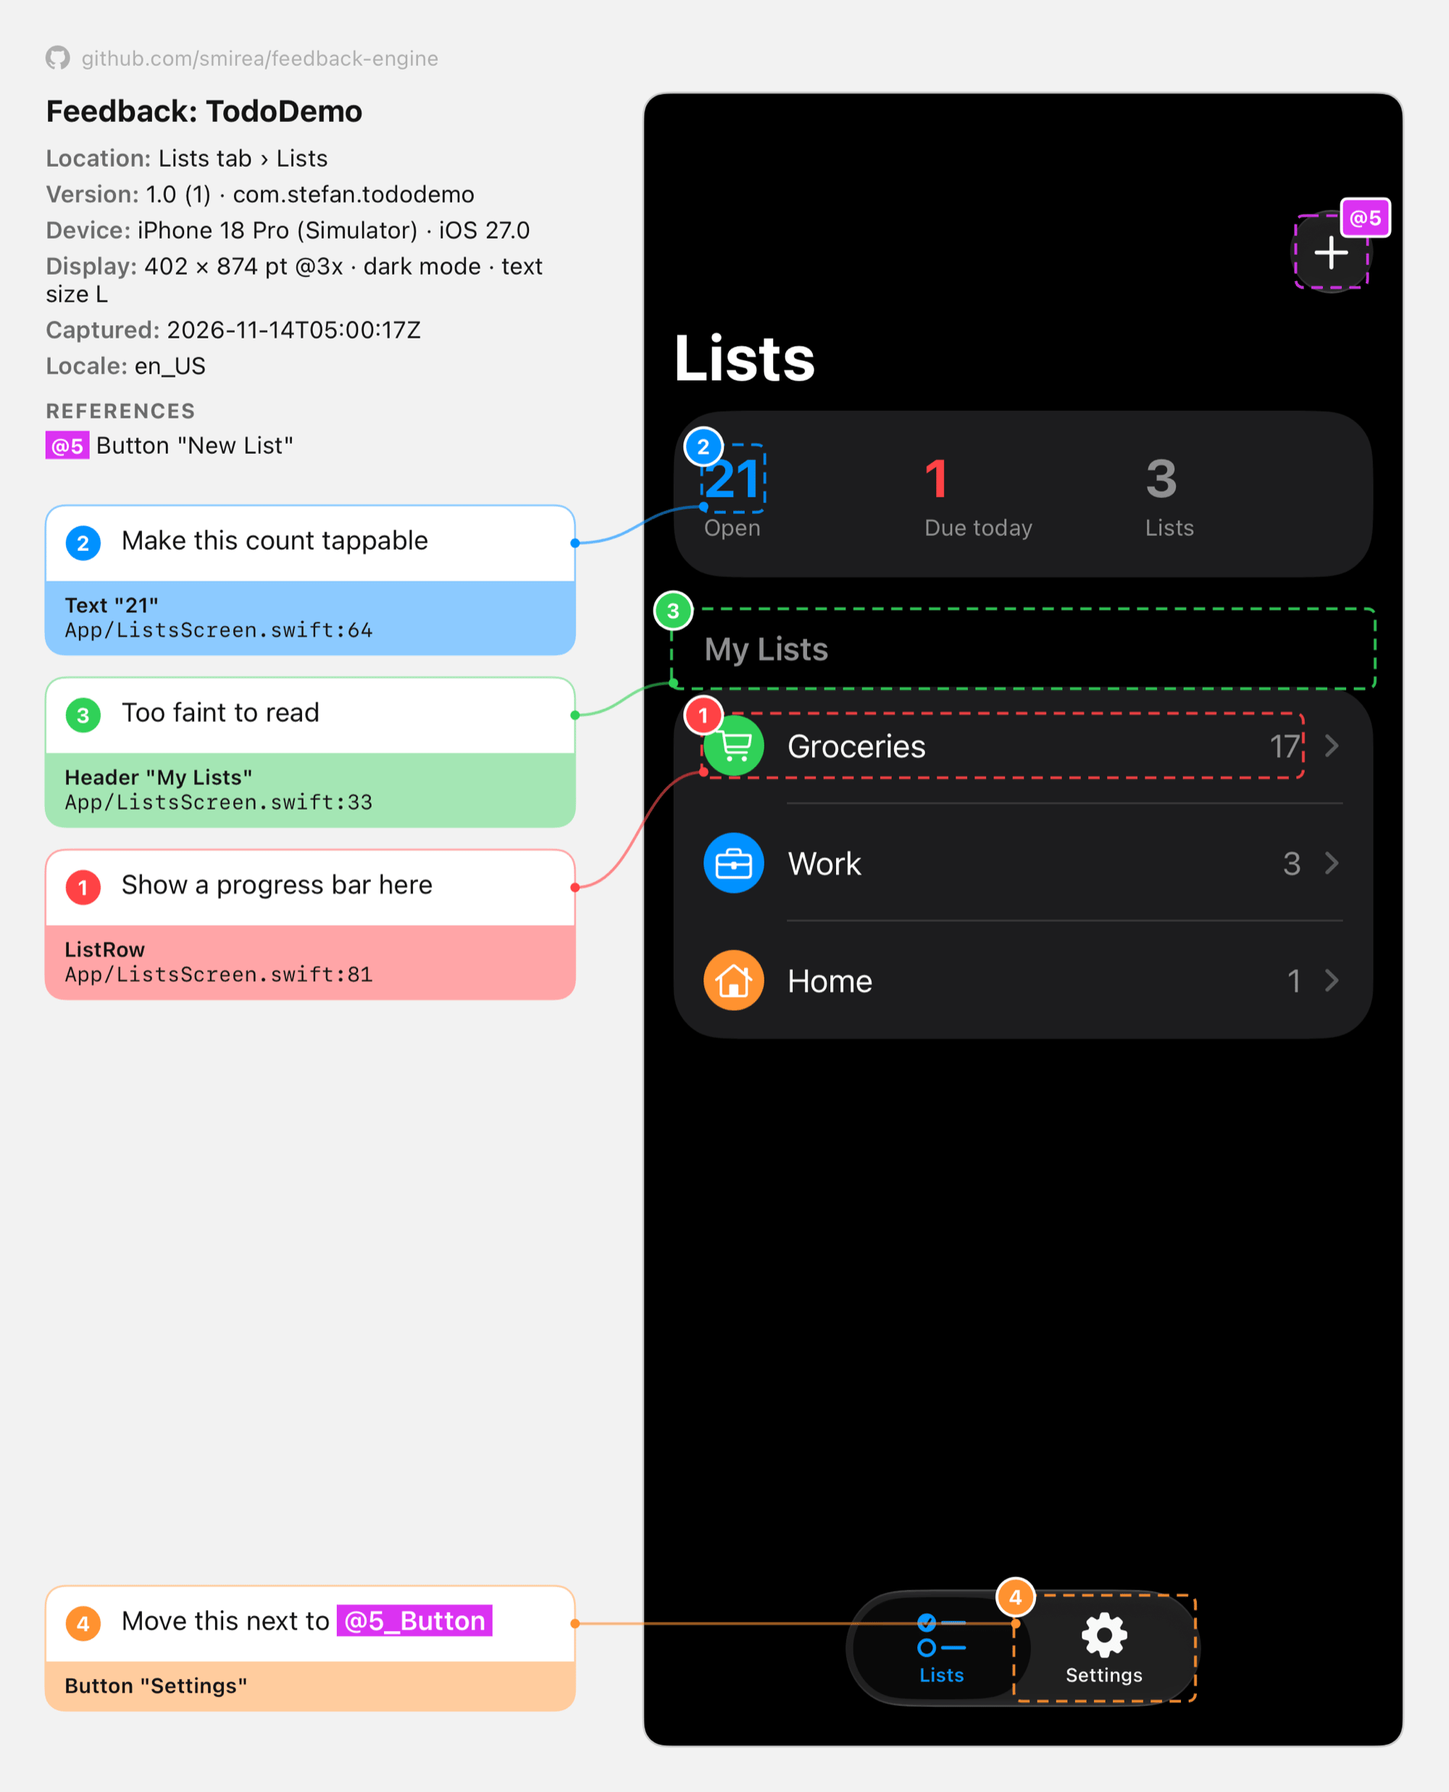
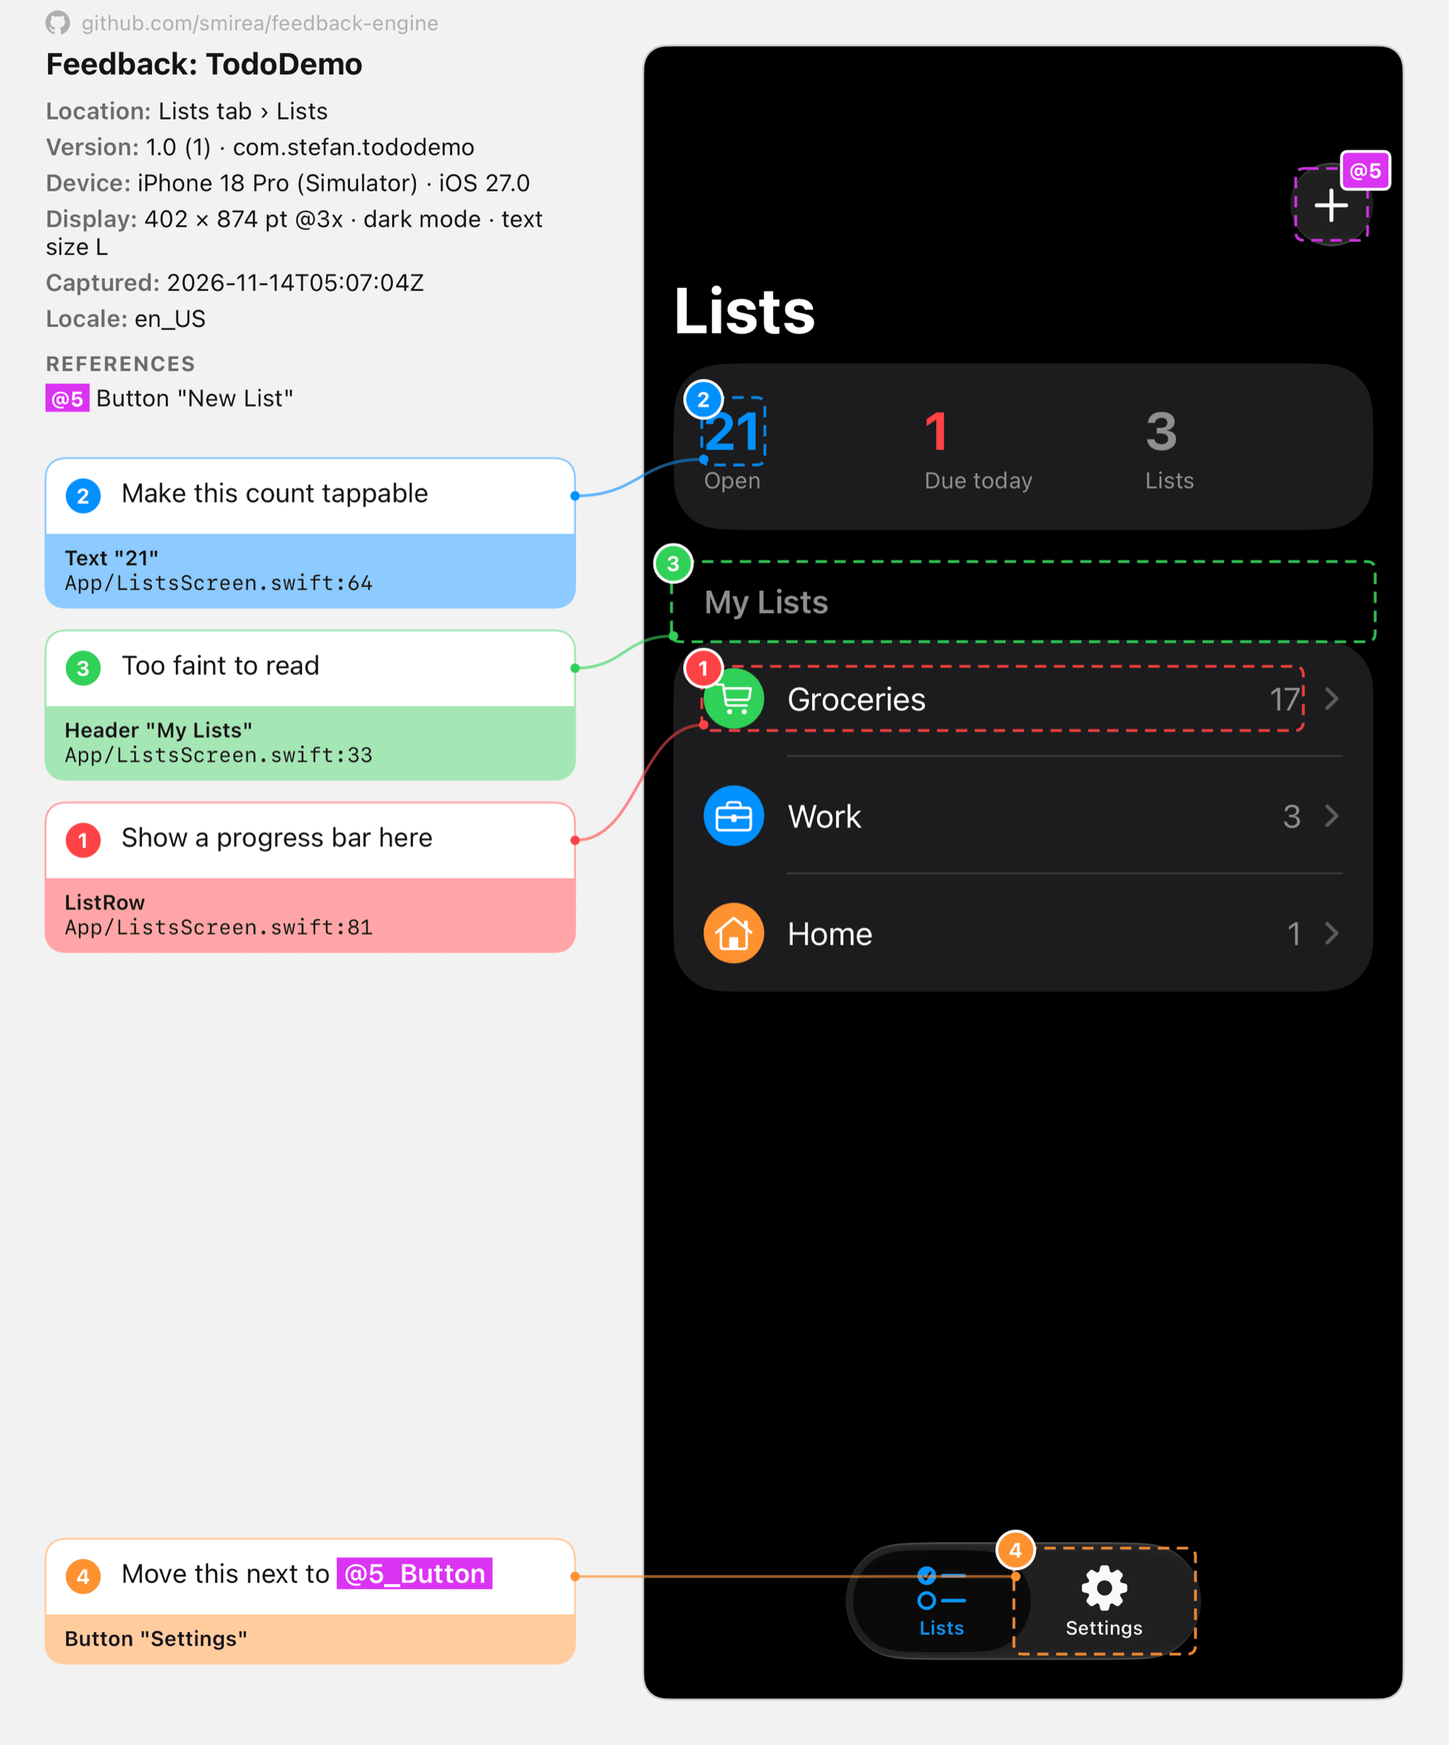
feat: the image export keeps an even margin and centers the watermark in the top one

diff --git a/packages/ios/Sources/Feedback/AnnotatedImage.swift b/packages/ios/Sources/Feedback/AnnotatedImage.swift
@@ -3,7 +3,7 @@ import CoreGraphics
 /// Where the image export puts each item's card. Cards go in the column whose path to the target costs
 /// least: its length, `rightColumnPenalty` points for the right column, and `crossingPenalty` for each
 /// other box or earlier path it crosses, as level with the target as the cards above allow. The
-/// watermark has a strip across the top of the image, in the outer corner of the environment's column.
+/// watermark sits in the top margin, centered in it, in the outer corner of the environment's column.
 /// The environment sits at the top of the right column, and right-column cards start below it. When one
 /// column holds the environment and every card with no crossing and no taller image, the image drops
 /// the other column and keeps only a margin on that side, and of the two sides it takes the one whose
@@ -75,20 +75,19 @@ enum CardLayout {
     private static func arrange(
         _ columns: Columns, targets: [CGRect], heights: [CGFloat], screen: CGSize, environmentHeight: CGFloat, viewport: CGFloat, references: [CGRect]
     ) -> Arrangement {
-        let top = margin + watermark + spacing
-        var shot = CGRect(x: columns == .right ? margin : margin + column + gutter, y: top, width: screen.width, height: screen.height)
+        var shot = CGRect(x: columns == .right ? margin : margin + column + gutter, y: margin, width: screen.width, height: screen.height)
         let rightX = shot.maxX + gutter
         let moved = targets.map { $0.offsetBy(dx: shot.minX, dy: shot.minY) }
         let boxes = moved + references.map { $0.offsetBy(dx: shot.minX, dy: shot.minY) }
         var cards = moved.map { _ in Card(isLeft: true, origin: .zero) }
         var paths: [[CGPoint]] = []
-        let environment = CGPoint(x: columns == .left ? margin : rightX, y: top)
-        let underEnvironment = top + environmentHeight + spacing * 2
-        var nextLeft = columns == .left ? underEnvironment : top, nextRight = underEnvironment
+        let environment = CGPoint(x: columns == .left ? margin : rightX, y: margin)
+        let underEnvironment = margin + environmentHeight + spacing * 2
+        var nextLeft = columns == .left ? underEnvironment : margin, nextRight = underEnvironment
         var cost: CGFloat = 0, crossed = 0
         for index in moved.indices.sorted(by: { (moved[$0].midY, $0) < (moved[$1].midY, $1) }) {
             let target = moved[index]
-            let desired = max(target.midY - heights[index] / 2, top)
+            let desired = max(target.midY - heights[index] / 2, margin)
             var options: [Card] = []
             if columns != .right { options.append(Card(isLeft: true, origin: CGPoint(x: margin, y: max(desired, nextLeft)))) }
             if columns != .left { options.append(Card(isLeft: false, origin: CGPoint(x: rightX, y: max(desired, nextRight)))) }
@@ -113,7 +112,7 @@ enum CardLayout {
         shot.size.height = min(screen.height, max(viewport, lowest + viewport / 2))
         let layout = Layout(
             shot: shot, cards: cards, environment: environment,
-            watermark: Card(isLeft: columns == .left, origin: CGPoint(x: environment.x, y: margin)),
+            watermark: Card(isLeft: columns == .left, origin: CGPoint(x: environment.x, y: (margin - watermark) / 2)),
             size: CGSize(
                 width: columns == .left ? shot.maxX + margin : rightX + column + margin,
                 height: max(shot.maxY, nextLeft - spacing, nextRight - spacing) + margin

diff --git a/packages/web/src/core/cardLayout.ts b/packages/web/src/core/cardLayout.ts
@@ -106,10 +106,9 @@ function arrange(
 	references: Frame[],
 ): Arrangement {
 	const { margin, column, gutter, spacing, rightColumnPenalty, crossingPenalty, watermark } = cards;
-	const top = margin + watermark + spacing;
 	const shot = {
 		x: columns === 'right' ? margin : margin + column + gutter,
-		y: top,
+		y: margin,
 		width: screen.width,
 		height: screen.height,
 	};
@@ -120,16 +119,16 @@ function arrange(
 	const midY = (index: number) => moved[index]!.y + moved[index]!.height / 2;
 	const placed: Card[] = moved.map(() => ({ isLeft: true, origin: { x: 0, y: 0 } }));
 	const paths: Point[][] = [];
-	const environment = { x: columns === 'left' ? margin : rightX, y: top };
-	const underEnvironment = top + environmentHeight + spacing * 2;
-	let nextLeft = columns === 'left' ? underEnvironment : top;
+	const environment = { x: columns === 'left' ? margin : rightX, y: margin };
+	const underEnvironment = margin + environmentHeight + spacing * 2;
+	let nextLeft = columns === 'left' ? underEnvironment : margin;
 	let nextRight = underEnvironment;
 	let cost = 0;
 	let crossed = 0;
 	const order = moved.map((_, index) => index).toSorted((a, b) => midY(a) - midY(b) || a - b);
 	for (const index of order) {
 		const target = moved[index]!;
-		const desired = Math.max(midY(index) - heights[index]! / 2, top);
+		const desired = Math.max(midY(index) - heights[index]! / 2, margin);
 		const options: Card[] = [];
 		if (columns !== 'right') options.push({ isLeft: true, origin: { x: margin, y: Math.max(desired, nextLeft) } });
 		if (columns !== 'left') options.push({ isLeft: false, origin: { x: rightX, y: Math.max(desired, nextRight) } });
@@ -161,7 +160,7 @@ function arrange(
 		shot,
 		cards: placed,
 		environment,
-		watermark: { isLeft: columns === 'left', origin: { x: environment.x, y: margin } },
+		watermark: { isLeft: columns === 'left', origin: { x: environment.x, y: (margin - watermark) / 2 } },
 		size: { width: columns === 'left' ? shot.x + shot.width + margin : rightX + column + margin, height },
 		cost,
 		crossings: crossed,
@@ -171,7 +170,7 @@ function arrange(
 /**
  * Where the image export puts each item's card. Cards go in the column whose path to the target costs least: its
  * length, `rightColumnPenalty` points for the right column, and `crossingPenalty` for each other box or earlier path
- * it crosses, as level with the target as the cards above allow. The watermark has a strip across the top of the image,
+ * it crosses, as level with the target as the cards above allow. The watermark sits in the top margin, centered in it,
  * in the outer corner of the environment's column. The environment sits at the top of the right column, and
  * right-column cards start below it. When one column holds the
  * environment and every card with no crossing and no taller image, the image drops the other column and keeps only a

diff --git a/packages/ios/Tests/FeedbackTests/FeedbackTests.swift b/packages/ios/Tests/FeedbackTests/FeedbackTests.swift
@@ -260,23 +260,23 @@ private final class Store {
         viewport: 800,
         references: [CGRect(x: 150, y: 280, width: 100, height: 80)]
     )
-    #expect(layout.shot == CGRect(x: 340, y: 49, width: 400, height: 800))
+    #expect(layout.shot == CGRect(x: 340, y: 24, width: 400, height: 800))
     #expect(layout.cards == [
-        .init(isLeft: true, origin: CGPoint(x: 24, y: 339)),
-        .init(isLeft: false, origin: CGPoint(x: 776, y: 339)),
+        .init(isLeft: true, origin: CGPoint(x: 24, y: 314)),
+        .init(isLeft: false, origin: CGPoint(x: 776, y: 314)),
     ])
-    #expect(layout.environment == CGPoint(x: 776, y: 49))
-    #expect(layout.size == CGSize(width: 1080, height: 873))
+    #expect(layout.environment == CGPoint(x: 776, y: 24))
+    #expect(layout.size == CGSize(width: 1080, height: 848))
 }
 
 @Test func oneColumnKeepsOnlyAMarginOnTheOtherSide() {
     let layout = CardLayout.place(
         targets: [CGRect(x: 360, y: 700, width: 30, height: 30)], heights: [50], screen: screen, environmentHeight: 200, viewport: 800
     )
-    #expect(layout.shot == CGRect(x: 24, y: 49, width: 400, height: 800))
-    #expect(layout.cards == [.init(isLeft: false, origin: CGPoint(x: 460, y: 739))])
-    #expect(layout.environment == CGPoint(x: 460, y: 49))
-    #expect(layout.size == CGSize(width: 764, height: 873))
+    #expect(layout.shot == CGRect(x: 24, y: 24, width: 400, height: 800))
+    #expect(layout.cards == [.init(isLeft: false, origin: CGPoint(x: 460, y: 714))])
+    #expect(layout.environment == CGPoint(x: 460, y: 24))
+    #expect(layout.size == CGSize(width: 764, height: 848))
 }
 
 @Test func aCardIsJoinedToItsTargetByAnSCurveThatMeetsItLevel() {
@@ -287,8 +287,8 @@ private final class Store {
 @Test func aTallCaptureIsCutHalfAScreenBelowTheLowestCardAndIsAtLeastOneScreenTall() {
     let tall = CGSize(width: 400, height: 5000)
     let near = CardLayout.place(targets: [CGRect(x: 0, y: 100, width: 60, height: 44)], heights: [60], screen: tall, environmentHeight: 150, viewport: 800)
-    #expect(near.shot == CGRect(x: 340, y: 49, width: 400, height: 800))
-    #expect(near.size.height == 873)
+    #expect(near.shot == CGRect(x: 340, y: 24, width: 400, height: 800))
+    #expect(near.size.height == 848)
     let far = CardLayout.place(targets: [CGRect(x: 0, y: 3000, width: 60, height: 50)], heights: [60], screen: tall, environmentHeight: 150, viewport: 800)
     #expect(far.shot.height == 3455)
     let referenced = CardLayout.place(

diff --git a/packages/web/e2e/feedback.e2e.ts b/packages/web/e2e/feedback.e2e.ts
@@ -365,9 +365,8 @@ for (const app of appNames) {
 					).toEqual([['@1_ListRow', 'ListRow']]);
 					const image = PNG.sync.read(Buffer.from(await Bun.file(join(folder, 'feedback/feedback.png')).arrayBuffer()));
 					// One card is level with its row and crosses nothing, so one column, a gutter, and a margin on each side, at 2x.
-					// The watermark's strip and its spacing sit above the screenshot.
 					expect(image.width).toBe((24 + 280 + 36 + viewport.width + 24) * 2);
-					expect(image.height).toBe((24 + 13 + 12 + zipped.size.height + 24) * 2);
+					expect(image.height).toBe((24 + zipped.size.height + 24) * 2);
 
 					if (engine === 'chromium') {
 						await page.getByRole('button', { name: 'Copy Feedback' }).click();

diff --git a/packages/web/src/core/core.test.ts b/packages/web/src/core/core.test.ts
@@ -402,8 +402,8 @@ test('nesting stops after 3 levels, lists after 10 elements, and the whole descr
 test('a tall capture is cut half a screen below the lowest box or card, and is at least one screen tall', () => {
 	const tall = { width: 400, height: 5000 };
 	const near = place([frame(0, 100, 60, 44)], [60], tall, 150, 800);
-	expect(near.shot).toEqual(frame(340, 49, 400, 800));
-	expect(near.size.height).toBe(873);
+	expect(near.shot).toEqual(frame(340, 24, 400, 800));
+	expect(near.size.height).toBe(848);
 	expect(place([frame(0, 3000, 60, 50)], [60], tall, 150, 800).shot.height).toBe(3055 + 400);
 	expect(place([frame(0, 100, 60, 44)], [60], tall, 150, 800, [frame(0, 4000, 60, 50)]).shot.height).toBe(4050 + 400);
 });

diff --git a/spec/report.md b/spec/report.md
@@ -48,7 +48,7 @@ Items and references share one count. A node takes the next number, from 1, and 
 
 ## Image export
 
-The screenshot sits between two columns of cards. Each item's target has a dashed box with no fill and a round badge with its number, matching the item numbers in the JSON export. Each node an item's text references has a box in its color too, with its `@N` in a square tag on the box's top-right corner. In the cards, each reference token is drawn in white on its color, with a space of that color before and after it. Each item goes in a card, with its text at the top beside the badge, and its target title over the nearest component's `file:line` at the bottom, in dark text of one small size on a band filled with the card's border color, as level with the target as the cards above it allow. An S curve joins the card's badge to the nearest side of the box, leaving the card level and meeting the box level. It has the dashed box's 1.5 point stroke and a dot at each end, one on the card's edge and one on the box. Cards are placed from the highest target down, and each takes the column whose curve costs least: its straight length, 80 points more for the right column, and 500 points for each other item or reference box it passes through and each earlier curve it crosses. A faint watermark, GitHub's mark at 13 points beside `github.com/smirea/feedback-engine` in 11 point text, sits in a strip along the top of the image, in the corner of the column that holds the environment, against its outer edge. That is the right edge of the right column, or the left edge when the left column is the only one. The screenshot, the cards, and the environment start 12 points below the strip. The app name goes at the top of the right column, then one `Name: value` line per environment entry, wrapped, then, under a small `REFERENCES` header, one line per reference with no item of its own: its `@N` in white on its color, the nearest component's `file:line`, and its title. The cards in the right column go below them. When the environment and every card fit in one column, on either side, with no curve passing through a box or crossing another curve and with an image no taller than two columns give, the image has that one column, and the other side of the screenshot keeps only the outer margin. Of the two sides, the one whose curves are shorter in total wins, the left on a tie. The screenshot is cut half the height of the part that was on screen below the lowest item box, reference box, or card, but never shorter than that height and never past the capture's end. A tall capture is drawn at a lower scale, so the image stays under about 40 million pixels.
+The screenshot sits between two columns of cards. Each item's target has a dashed box with no fill and a round badge with its number, matching the item numbers in the JSON export. Each node an item's text references has a box in its color too, with its `@N` in a square tag on the box's top-right corner. In the cards, each reference token is drawn in white on its color, with a space of that color before and after it. Each item goes in a card, with its text at the top beside the badge, and its target title over the nearest component's `file:line` at the bottom, in dark text of one small size on a band filled with the card's border color, as level with the target as the cards above it allow. An S curve joins the card's badge to the nearest side of the box, leaving the card level and meeting the box level. It has the dashed box's 1.5 point stroke and a dot at each end, one on the card's edge and one on the box. Cards are placed from the highest target down, and each takes the column whose curve costs least: its straight length, 80 points more for the right column, and 500 points for each other item or reference box it passes through and each earlier curve it crosses. A faint watermark, GitHub's mark at 13 points beside `github.com/smirea/feedback-engine` in 11 point text, sits in the image's top margin, centered in its height, in the corner of the column that holds the environment, against its outer edge. That is the right edge of the right column, or the left edge when the left column is the only one. The margin stays 24 points on every edge, so the screenshot and the app name start right below it. The app name goes at the top of the right column, then one `Name: value` line per environment entry, wrapped, then, under a small `REFERENCES` header, one line per reference with no item of its own: its `@N` in white on its color, the nearest component's `file:line`, and its title. The cards in the right column go below them. When the environment and every card fit in one column, on either side, with no curve passing through a box or crossing another curve and with an image no taller than two columns give, the image has that one column, and the other side of the screenshot keeps only the outer margin. Of the two sides, the one whose curves are shorter in total wins, the left on a tie. The screenshot is cut half the height of the part that was on screen below the lowest item box, reference box, or card, but never shorter than that height and never past the capture's end. A tall capture is drawn at a lower scale, so the image stays under about 40 million pixels.
 
 ## JSON export
 

diff --git a/spec/features.md b/spec/features.md
@@ -116,7 +116,7 @@ Add or update a row in the same change that adds, changes, or removes behavior o
 
 | ID | Feature | iOS | Svelte | React | Notes |
 | --- | --- | --- | --- | --- | --- |
-| X1 | The image export is one `feedback.png` with numbered boxes, a card per item, and the environment. Each card has the text at the top and the target with its `file:line` in a band at the bottom, and an S curve to its box that avoids other boxes and curves, at the dashed box's stroke width with a dot at each end. A faint GitHub watermark with the repository's URL sits in the top corner above the environment. The environment sits at the top of the right column as `Name: value` lines, with a `file:line` line for each reference that has no card under a References header, and that column's cards under it. When one column holds everything with no crossing, the image drops the other column, on the side with the shorter curves. A tall capture is cut half a screen below the lowest box or card, and is at least one screen tall. | shipped | shipped | shipped | Web: drawn on a canvas with the layout rules of `report.md`. |
+| X1 | The image export is one `feedback.png` with numbered boxes, a card per item, and the environment. Each card has the text at the top and the target with its `file:line` in a band at the bottom, and an S curve to its box that avoids other boxes and curves, at the dashed box's stroke width with a dot at each end. A faint GitHub watermark with the repository's URL sits in the top margin, in the corner above the environment. The environment sits at the top of the right column as `Name: value` lines, with a `file:line` line for each reference that has no card under a References header, and that column's cards under it. When one column holds everything with no crossing, the image drops the other column, on the side with the shorter curves. A tall capture is cut half a screen below the lowest box or card, and is at least one screen tall. | shipped | shipped | shipped | Web: drawn on a canvas with the layout rules of `report.md`. |
 | X2 | The JSON export is one `feedback.json` with the items, the tree, the component data, and the context. | shipped | shipped | shipped | |
 | X3 | Image and JSON export together as one `feedback.zip`. | shipped | shipped | shipped | |
 | X4 | **Copy Feedback** puts the image export on the clipboard as one PNG. | shipped | shipped | shipped | Web: `navigator.clipboard.write`, in a secure context. |

diff --git a/.changeset/export-watermark-margin.md b/.changeset/export-watermark-margin.md
@@ -1,0 +1,5 @@
+---
+'@stefan.inc/feedback-engine': patch
+---
+
+The image export keeps the same margin on every edge and centers the GitHub watermark in the top margin, so the app's details and the screenshot start at the top of the content again.
